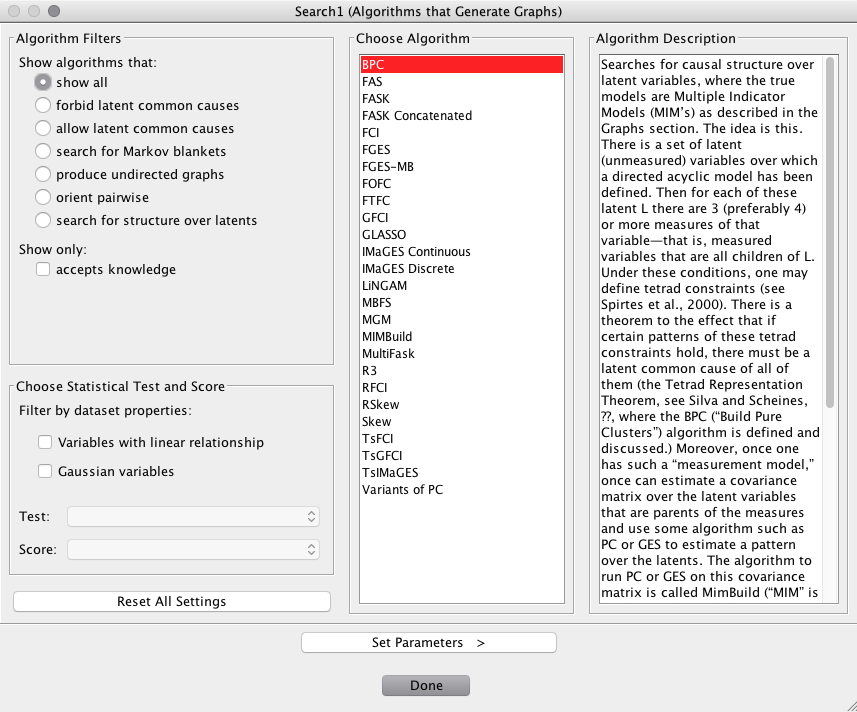
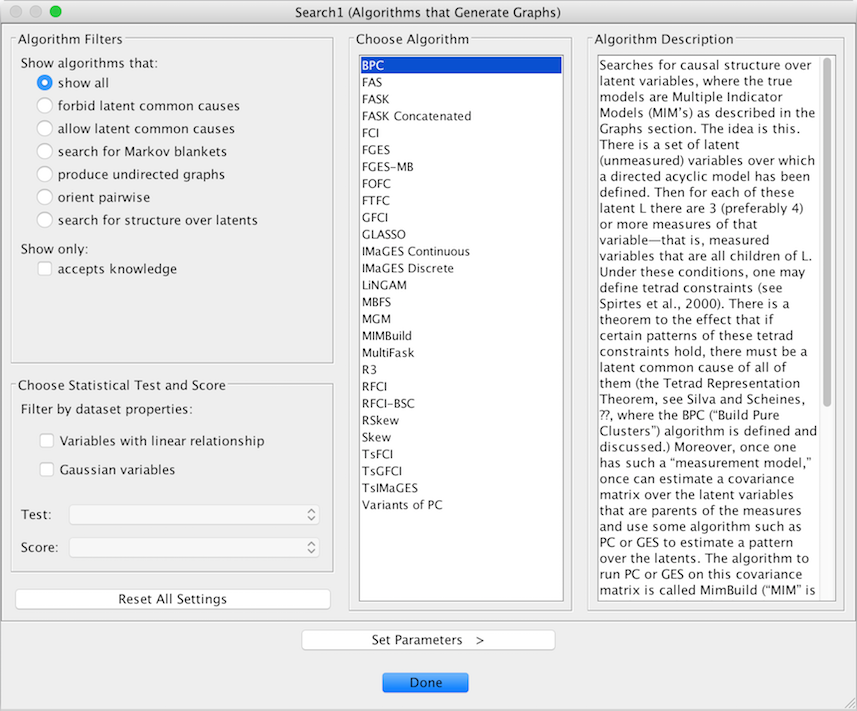
Added RFCI-BSC manual

Changed region(s): [[0.0, 0.0, 1.0, 1.0], [0.3337, 0.7117, 0.3944, 0.8045]]

diff --git a/docs/manual/index.html b/docs/manual/index.html
@@ -1871,7 +1871,7 @@ raf mek pip2    erk akt cd3_s   cd3_v   icam
 
     <h4>Parameters</h4>
 
-    <p>All of the parameters from FGES are available for IMaGES. Additionally:</p>
+    <p>All of the parameters from FCI are below.</p>
 
     <table class="table">
 
@@ -1880,11 +1880,6 @@ raf mek pip2    erk akt cd3_s   cd3_v   icam
         </thead>
 
         <tbody>
-        <tr>
-            <td>Cutoff for p-values (alpha)</td>
-            <td>Conditional independence tests with p-values greater than this will be judged to be independent (H0). Defualt 0.01.</td>
-        </tr>
-
         <tr>
             <td>Maximum size of conditioning set (depth)</td>
             <td>PC in the adjacency phase will consider conditioning sets for conditional independences of increasing size, up to this value. For instance, for depth 3, the maximum size of a conditioning set considered will be 3. Default -1 = unlimited.
@@ -1914,7 +1909,8 @@ raf mek pip2    erk akt cd3_s   cd3_v   icam
 
     <div id="rfci">
 
-        <p>A modification of the FCI algorithm in which some expensive steps are finessed and the output is somewhat differently interpreted. In most cases this runs faster than FCI (which can be slow in some steps) and is almost as informative. See ??.</p>
+        <p>A modification of the FCI algorithm in which some expensive steps are finessed and the output is somewhat differently interpreted. 
+        In most cases this runs faster than FCI (which can be slow in some steps) and is almost as informative. See [Colombo, 2012].</p>
 
     </div>
 
@@ -1928,7 +1924,7 @@ raf mek pip2    erk akt cd3_s   cd3_v   icam
 
     <h4>Parameters</h4>
 
-    <p>All of the parameters from FGES are available for IMaGES. Additionally:</p>
+    <p>All of the parameters from FCI are available for RFCI. Additionally:</p>
 
     <table class="table">
 
@@ -1938,14 +1934,15 @@ raf mek pip2    erk akt cd3_s   cd3_v   icam
 
         <tbody>
         <tr>
-            <td>Cutoff for p-values (alpha)</td>
-            <td>Conditional independence tests with p-values greater than this will be judged to be independent (H0). Defualt 0.01.</td>
+            <td>Maximum size of conditioning set (depth)</td>
+            <td>PC in the adjacency phase will consider conditioning sets for conditional independences of increasing size, up to this value. 
+            For instance, for depth 3, the maximum size of a conditioning set considered will be 3. Default -1 = unlimited.
+            </td>
         </tr>
 
         <tr>
-            <td>Maximum size of conditioning set (depth)</td>
-            <td>PC in the adjacency phase will consider conditioning sets for conditional independences of increasing size, up to this value. For instance, for depth 3, the maximum size of a conditioning set considered will be 3. Default -1 = unlimited.
-            </td>
+            <td>The maximum length for any discriminating path</td>
+            <td>For a description of discriminating paths, please see Spirtes et al, 2000. The idea is that one needs to search out from each variable in the orientation phase of the algorithm down all connected paths tree-like to see if there is a path of a certain sort. This can take time and for complex models can slow the algorithm down. A fix for this is to limit just how long these paths can be expected to be in maximum. The default is -1, or unlimited. Defualt -1 = unlimited.</td>
         </tr>
 
         <tr>
@@ -1957,6 +1954,92 @@ raf mek pip2    erk akt cd3_s   cd3_v   icam
 
     </table>
 
+	<h3>The RFCI-BSC Algorithm</h3>
+
+    <h4>Description</h4>
+
+    <div id="rfci-bsc">
+
+        <p>RFCI-BSC is a combination of the RFCI [Colombo, 2012] algorithm and the Bayesian Scoring of Constraints (BSC) method [Jabbari, 2017] that 
+        can generate and probabilistically score multiple models, outputting the most probable one. 
+        This search algorithm is a hybrid method that derives a Bayesian probability that 
+        the set of independence tests associated with a given causal model are jointly correct. 
+        Using this constraint-based scoring method, we are able to score multiple causal models, which possibly contain latent variables, 
+        and output the most probable one. See [Jabbari, 2017].</p>
+
+    </div>
+
+    <h4>Input Assumptions</h4>
+
+    <p>The data are discrete only.</p>
+
+    <h4>Output Format</h4>
+
+    <p>A partial ancestral graph (PAG). See Spirtes et al., 2000.</p>
+
+    <h4>Parameters</h4>
+
+    <p>All of the parameters from RFCI are available for RFCI-BSC. Additionally:</p>
+
+    <table class="table">
+
+        <thead>
+        <tr><th>Parameter</th><th>Description</th></tr>
+        </thead>
+
+        <tbody>
+        <tr>
+            <td>The number of search probabilistic model (min = 1)</td>
+            <td>The number of the PAG models in the generation stage. Default = 10.</td>
+        </tr>
+
+        <tr>
+            <td>Yes, if use the cutoff threshold for the constraints independence test (stage 1).</td>
+            <td>Determine the constraints with cutoff probability threshold or not in the PAG models generation stage. Default is no.</td>
+        </tr>
+
+        <tr>
+            <td>Independence cutoff threshold</td>
+            <td>The cutoff probability threshold in the generative stage. Default = .5</td>
+        </tr>
+
+        <tr>
+            <td>Yes, if use the cutoff threshold for the meta-constraints independence test (stage 2).</td>
+            <td>Determine the constraints (from the previous stage) with cutoff probability threshold or not based on the posterior distribution that 
+            comes from the bootstrapping original dataset. Default is yes.</td>
+        </tr>
+
+        <tr>
+            <td>Constraint-independence cutoff threshold</td>
+            <td>The cutoff probability threshold in the constraint ground-truth table generative stage. Default = .5</td>
+        </tr>
+        
+        <tr>
+            <td>The number of bootstrappings drawing from posterior dist. (min = 1)</td>
+            <td>The number of bootstrapping datasets drawing from posterior distribution. Default = 50.</td>
+        </tr>
+
+        <tr>
+            <td>Lower bound cutoff threshold</td>
+            <td>The lower bound cutoff threshold of the probability of constraints that will be ignored if below this. Default = .3. 
+            The qualified constraints will be feed to the FGES search algorithm to find the constraint pattern model.</td>
+        </tr>
+
+        <tr>
+            <td>Higher bound cutoff threshold</td>
+            <td>The higher bound cutoff threshold of the probability of constraints that will be ignored if higher this. Default = .7. 
+            The qualified constraints will be feed to the FGES search algorithm to find the constraint pattern model.</td>
+        </tr>
+
+        <tr>
+            <td>Output graph: Yes: dependent-constraint RB, No: independent-constraint RB.</td>
+            <td>The output PAG graph is determined based on the depedent-constraint BSC score or indepedent one. See [Jabbari, 2017].</td>
+        </tr>
+
+
+        </tbody>
+
+    </table>
 
     <h3>The GFCI Algorithm</h3>
 
